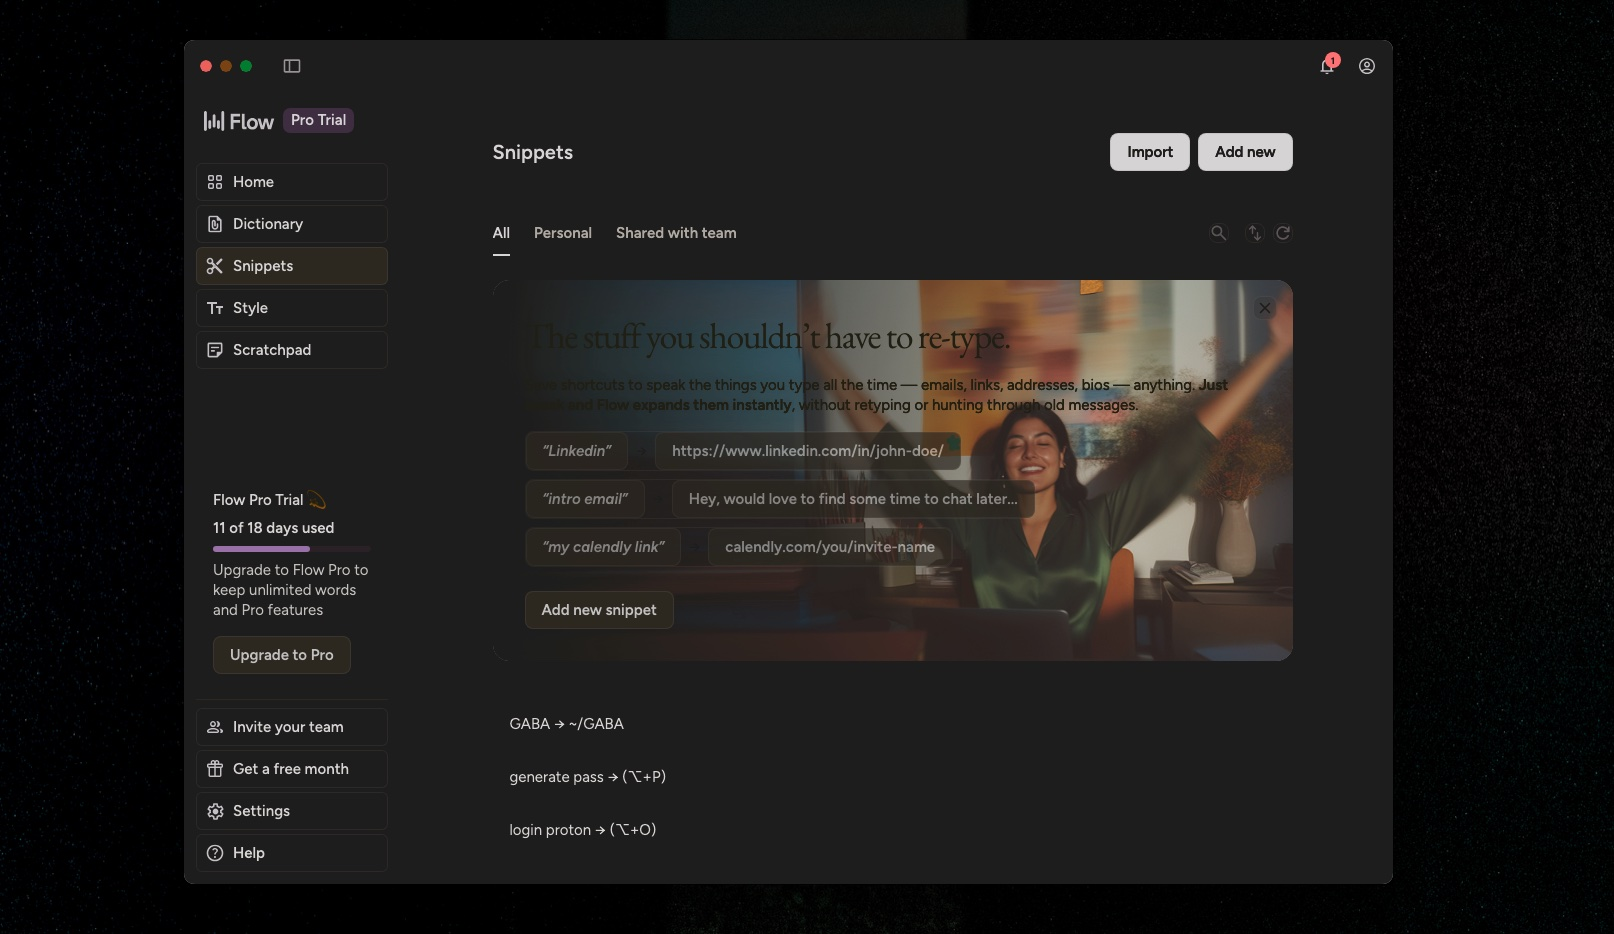
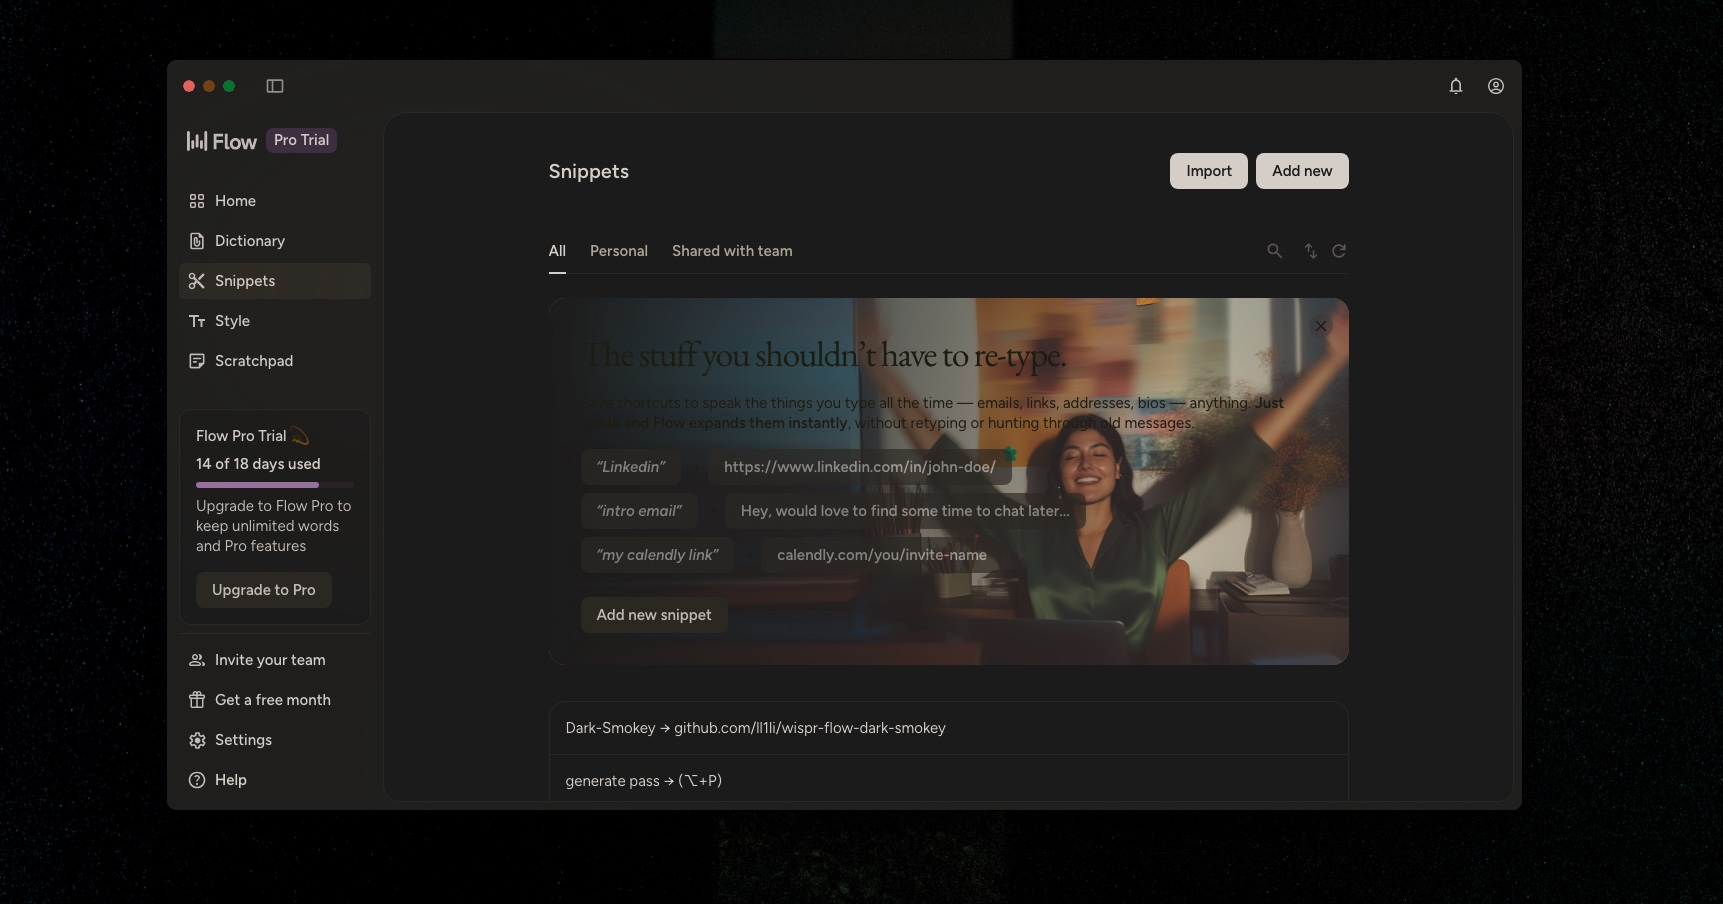
v1.3.1 — warmer smoky tone, polished README, fresh screenshot (#4)
* chore: save claude session handoff

Session covered: v1.3.0 script with 3 expert audits (bash, CSS, Electron),
naming sync, INDEX.md for ~/Claude/Github, Bear research, and scoping
context-warming/verification as the core foundational problem.

* docs: update CLAUDE.md to v1.3.0, finalize handoff

CLAUDE.md now reflects all v1.3.0 changes: updated CSS values,
asar 4.2.0, overlay hashes, process management, security notes.

* feat: v1.3.0 — darker theme, animated smoke, atomic writes

- Bump @electron/asar to 4.2.0 (pinned)
- Darker: invert(.90), sepia(.10), brightness(.98)
- Animated smoke via body::before radial gradients (55s cycle)
- Restore natural form element styling (no forced white boxes)
- Graduated CSS var overrides for depth variation
- Atomic asar write via mktemp+mv on same filesystem
- APP_WAS_RUNNING restart on failure
- Post-inject verification with grep
- Atomic restore for .unpacked directory
- pgrep -f to catch all Electron helper processes

* feat: warmer smoky tone, polished README, fresh screenshot

- Tune palette to warm amber (sepia .13, bg #1a1715, brightness 1.0)
- Smoke animation slowed to 90s (gentler GPU)
- Drop overlay hash hacks — natural invert handles modals
- Fresh screenshot reflecting v1.3 look
- Rewrite README with feature table, safety notes, compatibility matrix

diff --git a/README.md b/README.md
@@ -2,13 +2,13 @@
   Wispr Flow Dark-Smokey
 </h1>
 
-<h4 align="center">A one-command dark theme for <a href="https://wispr.com/" target="_blank">Wispr Flow</a> on macOS.</h4>
+<h4 align="center">A one-command dark theme for <a href="https://wispr.com/" target="_blank">Wispr Flow</a> on macOS — warm, smoky, with a subtle drifting gradient.</h4>
 
 <p align="center">
   <a href="https://github.com/ll1li/wispr-flow-dark-smokey/blob/main/LICENSE">
     <img src="https://img.shields.io/github/license/ll1li/wispr-flow-dark-smokey?style=flat-square" alt="License">
   </a>
-  <img src="https://img.shields.io/badge/version-1.2.0-blue?style=flat-square" alt="Version">
+  <img src="https://img.shields.io/badge/version-1.3.0-blue?style=flat-square" alt="Version">
   <img src="https://img.shields.io/badge/platform-macOS-blue?style=flat-square" alt="Platform">
   <img src="https://img.shields.io/badge/requires-Node.js-green?style=flat-square" alt="Requires Node.js">
 </p>
@@ -17,26 +17,29 @@
   <a href="#install">Install</a> •
   <a href="#usage">Usage</a> •
   <a href="#how-it-works">How It Works</a> •
+  <a href="#compatibility">Compatibility</a> •
   <a href="#license">License</a>
 </p>
 
 <p align="center">
-  <img src="screenshot.jpg" alt="Wispr Flow Dark-Smokey" width="700">
+  <img src="screenshot.jpg" alt="Wispr Flow Dark-Smokey" width="760">
 </p>
 
 ---
 
-Wispr Flow ships with a hardcoded white UI and no dark mode option. This script patches the Electron app bundle to inject a carefully tuned dark theme with warm smoky tones, uniform backgrounds, and clean outlines.
+Wispr Flow ships with a hardcoded white UI and no dark mode. This script patches the Electron `app.asar` bundle to inject a carefully tuned dark theme — warm but not yellow, dark but not clinical, with a slow-drifting radial gradient that gives the background a subtle smoky presence.
 
 ## Features
 
-- **Uniform dark background** -- overrides internal CSS variables to eliminate sidebar/content color mismatch
-- **Warm smoky tone** -- subtle sepia filter avoids the clinical white-on-black look
-- **Dimmed text** -- comfortable reading without harsh contrast
-- **Dark dialogs** -- modals, inputs, and popups are properly darkened
-- **Clean outlines** -- thin borders on interactive elements for visual structure
-- **Natural media** -- images and video are counter-inverted so they render correctly
-- **Safe** -- creates a backup on first run, one-command restore at any time
+| | |
+|---|---|
+| **Warm smoky tone** | Soft sepia + counter-inverted whites — no harsh pure black |
+| **Dynamic background** | Slow-drifting radial gradients (90s cycle) add depth without distraction |
+| **Uniform dark surfaces** | Overrides internal CSS variables so sidebar, content, and modals all match |
+| **Natural media** | Images and video are counter-inverted so they render correctly |
+| **Atomic write** | Patches via temp file + `mv` — never leaves a corrupt bundle |
+| **Idempotent** | Strips prior patches before injecting, safe to re-run any time |
+| **One-command restore** | `--restore` reverts to the original in seconds |
 
 ## Install
 
@@ -47,50 +50,59 @@ curl -fsSL https://raw.githubusercontent.com/ll1li/wispr-flow-dark-smokey/main/w
 ```
 
 > Make sure `~/.local/bin` is in your `PATH` (`export PATH="$HOME/.local/bin:$PATH"`).
-> Alternatively, use `/usr/local/bin/` (may require `sudo`).
 
 ## Usage
 
 ```bash
-# Apply dark mode (auto-restarts Wispr Flow)
-wispr-flow-dark-smokey
-
-# Restore original
-wispr-flow-dark-smokey --restore
+wispr-flow-dark-smokey            # Apply dark theme (auto-restarts Wispr Flow)
+wispr-flow-dark-smokey --restore  # Revert to the original
+wispr-flow-dark-smokey --check    # Is the theme currently applied?
+wispr-flow-dark-smokey --version  # Print version
 ```
 
-> **Note:** Wispr Flow auto-updates will overwrite the patch. Just re-run `wispr-flow-dark-smokey` after any update.
+> **Note:** Wispr Flow auto-updates overwrite the patch. Just re-run `wispr-flow-dark-smokey` after any update.
 
 ## How It Works
 
-The script extracts Wispr Flow's Electron `app.asar` bundle, injects CSS overrides into the renderer HTML before `</head>`, and repacks it. A backup is saved as `app.asar.bak` on first run.
+The script extracts Wispr Flow's Electron bundle, injects a `<style>` block before `</head>` in the renderer HTML, and repacks it atomically. A clean backup is saved on first run.
 
 | Layer | What it does |
 |-------|-------------|
-| `filter: invert(0.88) hue-rotate(180deg)` | Flips the UI to dark while preserving color relationships |
-| `--sand-*`, `--vast-*`, `--neutral-*` overrides | Forces all background shades to the same value |
-| `sepia(0.15)` + `brightness(1.05)` | Adds warmth and balances contrast |
-| Dialog/input overrides | Forces modals and form elements to invert properly |
+| `filter: invert(.89) hue-rotate(180deg)` | Flips the entire UI to dark while preserving hue relationships |
+| `sepia(.13) brightness(1.0)` | Warm amber cast, no overexposure |
+| `body::before` radial gradients | Slow-drifting smoke layer (90s cycle, GPU-friendly) |
+| `--sand-*`, `--vast-*`, `--neutral-*` overrides | Equalises internal CSS variables so every surface inverts to the same shade |
 | Counter-invert on `img, video, canvas` | Keeps media looking natural |
+| Status bar CSS | Separate, invert-free — bar is natively transparent |
+
+### Safety
+
+- **Atomic writes** — patched bundle is written to a temp file on the same filesystem, then `mv`'d into place
+- **Graceful process handling** — `pgrep -f` catches all Electron helpers (GPU, Renderer, Plugin), restart on failure via cleanup trap
+- **Post-inject verification** — script fails loudly if CSS didn't land
+- **Pinned asar version** — `@electron/asar@4.2.0`, no supply-chain surprises
 
 ## Compatibility
 
 | Wispr Flow | Dark-Smokey | Status |
 |------------|-------------|--------|
-| 1.4.x      | v1.2.0      | Tested |
+| 1.4.x      | v1.3.0      | Tested |
+| 1.3.x      | v1.3.0      | Tested |
 
-If Wispr Flow restructures its renderer after an update, the script will detect the change and exit with an error instead of silently failing.
+If Wispr Flow restructures its renderer after an update, the script detects the change and exits with an error instead of silently failing.
 
 ## Requirements
 
 - macOS
-- [Wispr Flow](https://wispr.com/) in `/Applications/`
-- [Node.js](https://nodejs.org/) (uses `npx asar` to unpack/repack the bundle)
+- [Wispr Flow](https://wispr.com/) installed in `/Applications/`
+- [Node.js](https://nodejs.org/) (uses `npx` to run `@electron/asar`)
 - Internet connection (first run only, to download `asar`)
 
 ## Disclaimer
 
-This is an unofficial community project. It only modifies CSS styling in the renderer HTML -- no proprietary code is extracted, reverse-engineered, or redistributed. A backup of the original bundle is created automatically and can be restored at any time with `--restore`.
+This is an unofficial community project. It only modifies CSS styling in the renderer HTML — no proprietary code is extracted, reverse-engineered, or redistributed. A backup of the original bundle is created automatically and can be restored at any time with `--restore`.
+
+Replacing `app.asar` invalidates the bundle's codesign seal, which is expected and safe for locally installed apps. Wispr Flow does not currently enforce ASAR integrity verification; if it adds one in a future release, this script will fail at startup rather than corrupt the app.
 
 ## License
 
